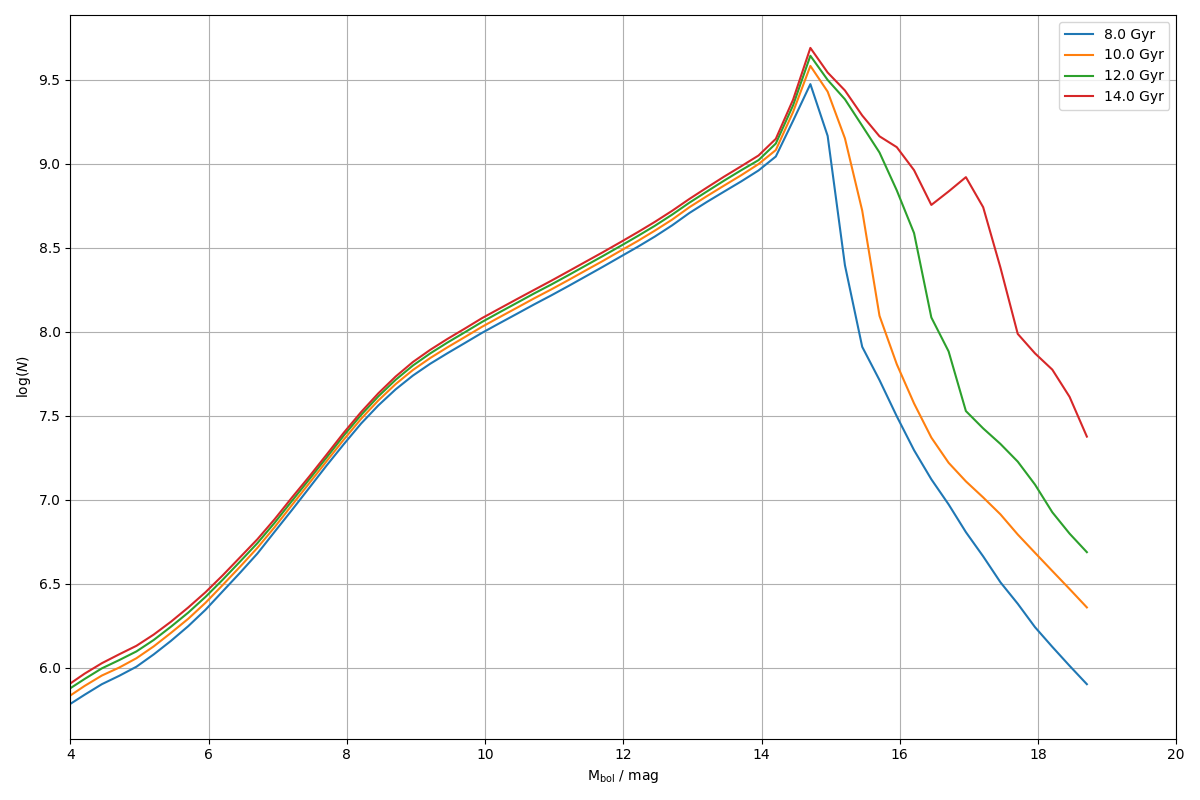
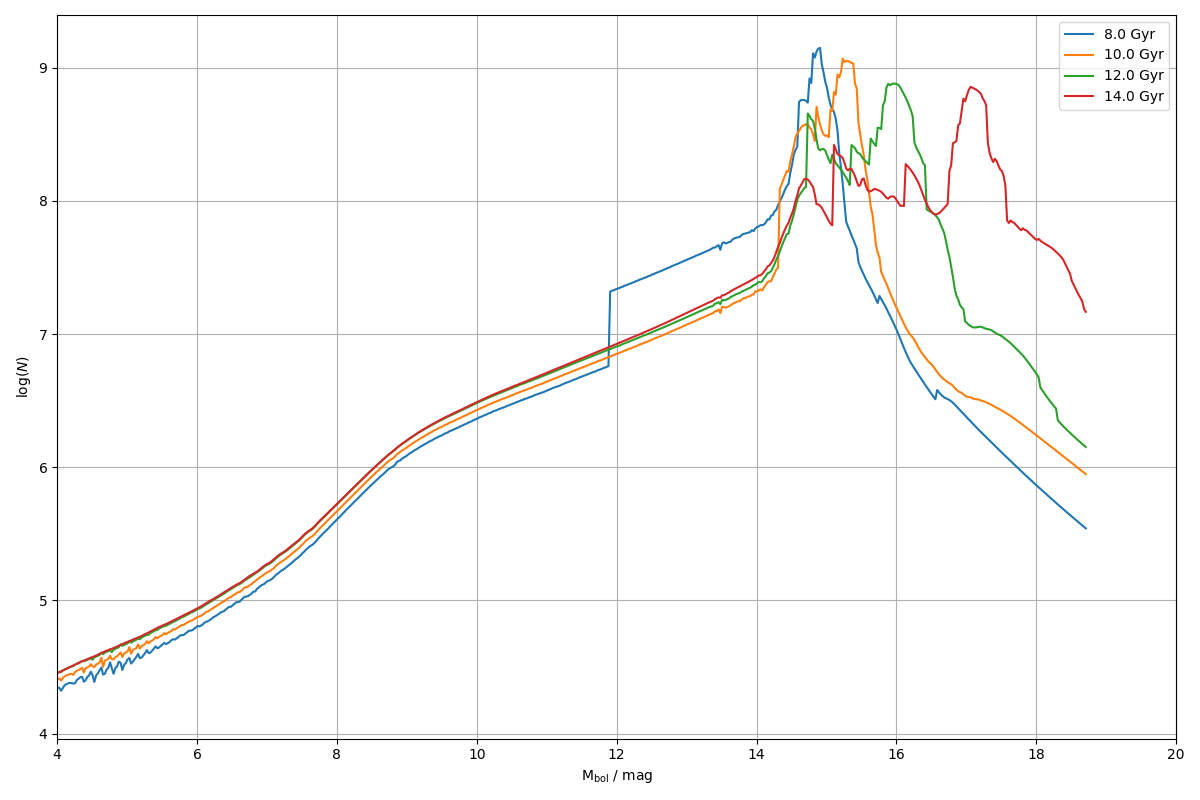
fixed burst SFR

diff --git a/theoretical_lf.py b/theoretical_lf.py
@@ -836,16 +836,18 @@ class WDLF:
 
             t0 = 0
             t1 = duration
-            t2 = 1e20
+            t2 = 2e10
 
-            self.sfr = interp1d(np.array((t0, t1, t2)), np.array((1., 1., 0.)))
+            self.sfr = interp1d(np.array((t0, t1, t1+1e-10, t2)),
+                                np.array((1., 1., 0., 0.)),
+                                fill_value='extrapolate')
 
         elif mode == 'decay':
 
-            t = 10.**np.linspace(0, 20, 10000)
+            t = 10.**np.linspace(0, 10.3, 10000)
             sfr = np.exp(-decay_constant * t)
 
-            self.sfr = interp1d(t, sfr)
+            self.sfr = interp1d(t, sfr, fill_value='extrapolate')
 
         elif mode == 'manual':
 
@@ -856,7 +858,7 @@ class WDLF:
             else:
 
                 warnings.warn('The sfr_model provided is not callable, '
-                              'None is applied')
+                              'None is applied, i.e. constant star fomration.')
                 self.sfr = None
 
         else:

diff --git a/test_sfr.py b/test_sfr.py
@@ -9,7 +9,7 @@ wdlf.set_sfr_model(mode='burst')
 wdlf.compute_cooling_age_interpolator()
 
 
-L = 10.**np.arange(28, 34., 0.1)
+L = 10.**np.arange(28, 34., 0.01)
 age = 1E9 * np.arange(8, 15, 2)
 num = np.zeros((len(age), len(L)))
 
@@ -22,7 +22,7 @@ wdlf.set_sfr_model(mode='decay')
 wdlf.compute_cooling_age_interpolator()
 
 
-L = 10.**np.arange(28, 34., 0.1)
+L = 10.**np.arange(28, 34., 0.01)
 age = 1E9 * np.arange(8, 15, 2)
 num = np.zeros((len(age), len(L)))
 
